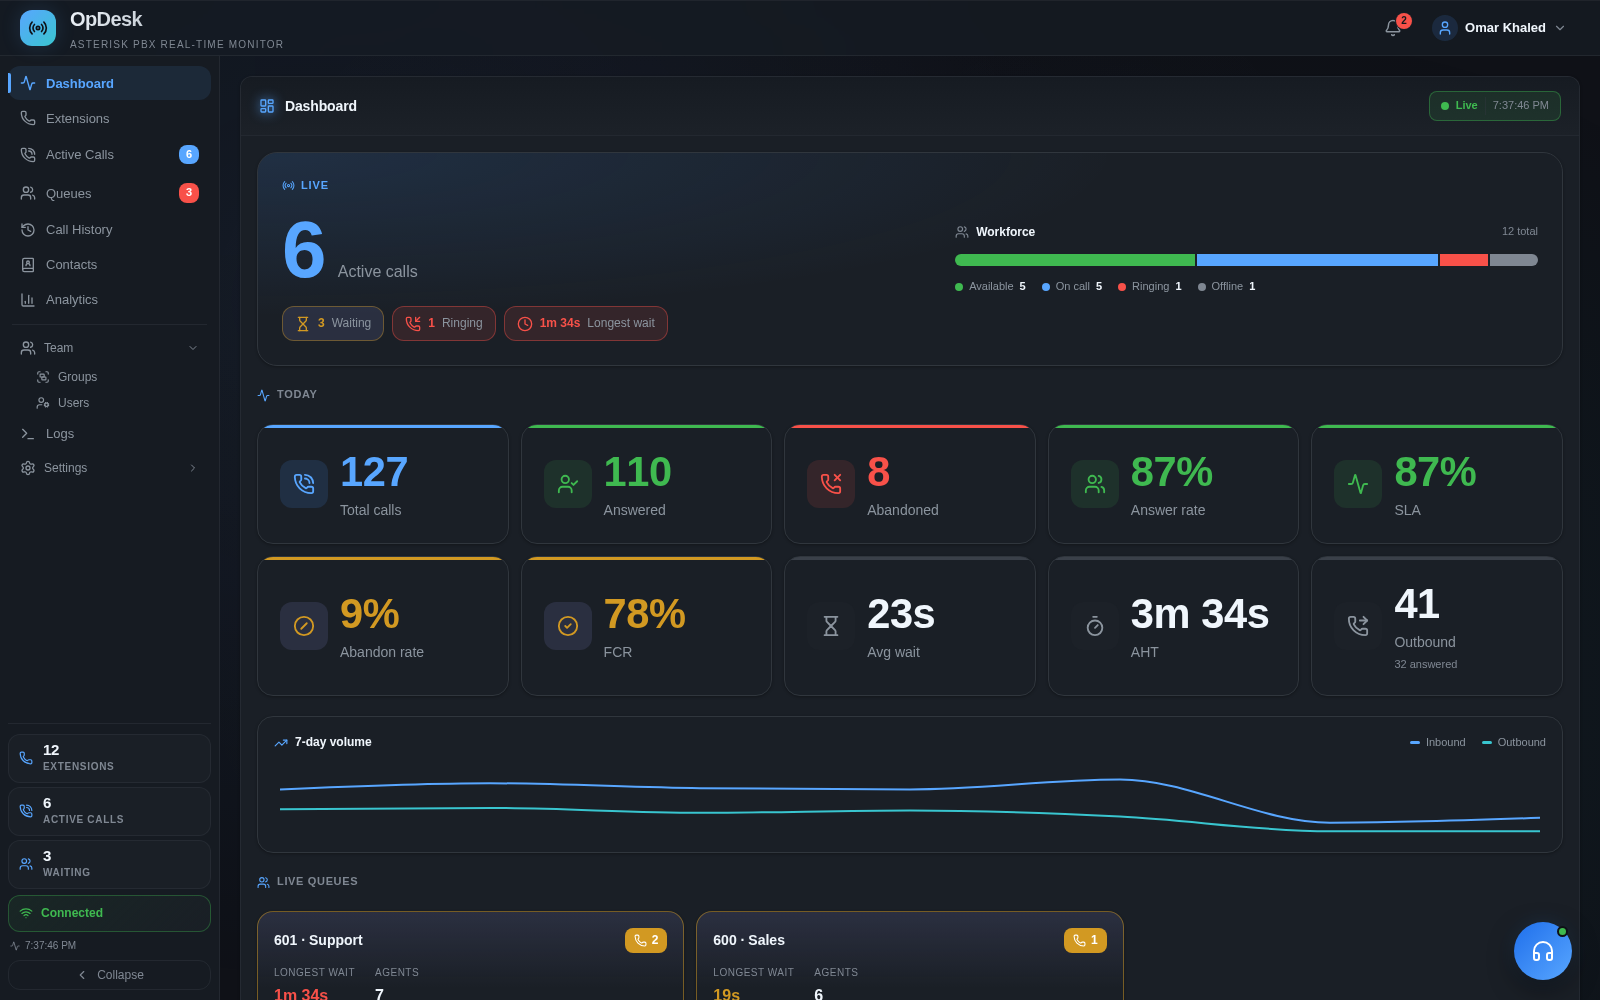
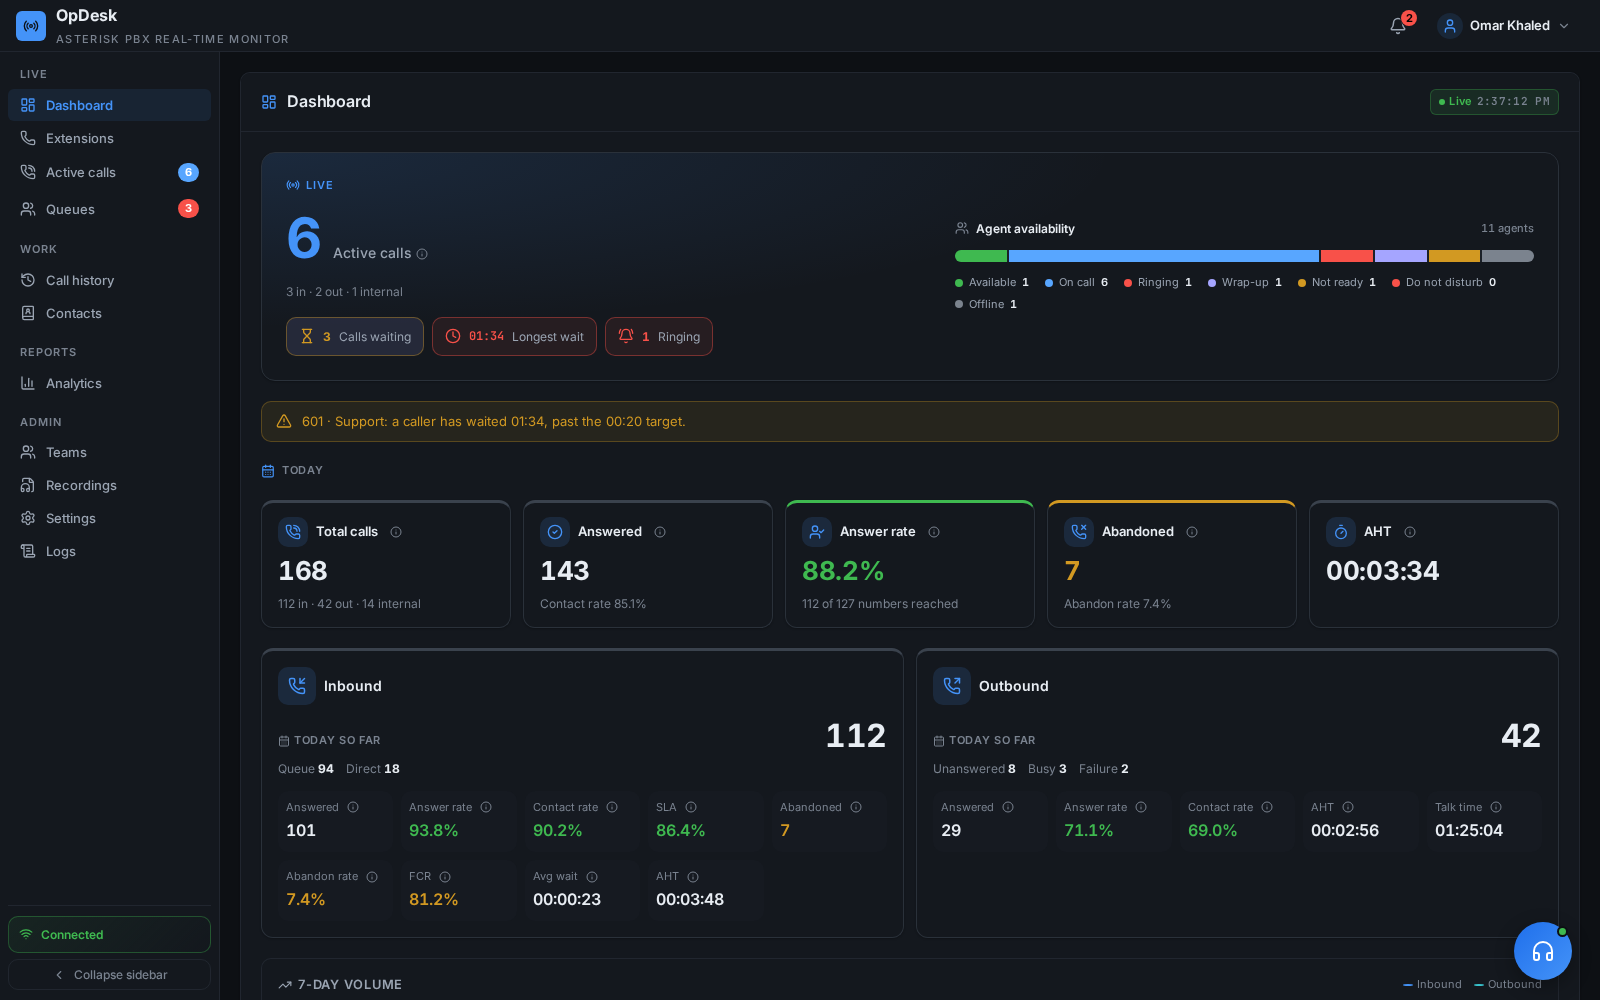
docs: retake screenshots; add Agent board and Recordings
Retake the 15 README screenshots on the current UI (direction badges, Dashboard queue
alert and live direction split, Analytics recovery and queue/direct figures, the internal
calls column, Abandoned status in Call history) and add two new views: the Queues page
Agent board and the Recordings page. Captured with fictional demo data against the built
frontend, with every backend call mocked.

diff --git a/README.md b/README.md
@@ -50,9 +50,13 @@ A real-time operator panel for **Asterisk PBX** (Issabel 5 / FreePBX 16 and 17),
 |---|---|---|
 | [![Extensions](screenshots/extensions.png)](screenshots/extensions.png) | [![Active calls](screenshots/active_calls.png)](screenshots/active_calls.png) | [![Queues](screenshots/queues.png)](screenshots/queues.png) |
 
-| Call log | Call Journey | Contacts |
+| Agent board | Call log | Call Journey |
 |---|---|---|
-| [![Call log](screenshots/call_log.png)](screenshots/call_log.png) | [![Call Journey](screenshots/call_journey.png)](screenshots/call_journey.png) | [![Contacts](screenshots/contacts.png)](screenshots/contacts.png) |
+| [![Agent board](screenshots/agent_board.png)](screenshots/agent_board.png) | [![Call log](screenshots/call_log.png)](screenshots/call_log.png) | [![Call Journey](screenshots/call_journey.png)](screenshots/call_journey.png) |
+
+| Recordings | Contacts | Dark theme |
+|---|---|---|
+| [![Recordings](screenshots/recordings.png)](screenshots/recordings.png) | [![Contacts](screenshots/contacts.png)](screenshots/contacts.png) | [![Dark theme](screenshots/dashboard_dark.png)](screenshots/dashboard_dark.png) |
 
 | Analytics | Queue performance | Agent performance |
 |---|---|---|
@@ -62,9 +66,9 @@ A real-time operator panel for **Asterisk PBX** (Issabel 5 / FreePBX 16 and 17),
 |---|---|---|
 | [![Softphone](screenshots/softphone.png)](screenshots/softphone.png) | [![Incoming call](screenshots/softphone_ringing.png)](screenshots/softphone_ringing.png) | [![Mobile app QR](screenshots/mobile_qr.png)](screenshots/mobile_qr.png) |
 
-| Mobile Wake settings | Dark theme |   |
+| Mobile Wake settings |   |   |
 |---|---|---|
-| [![Mobile Wake settings](screenshots/mobile_wake.png)](screenshots/mobile_wake.png) | [![Dark theme](screenshots/dashboard_dark.png)](screenshots/dashboard_dark.png) |   |
+| [![Mobile Wake settings](screenshots/mobile_wake.png)](screenshots/mobile_wake.png) |   |   |
 
 ---
 
